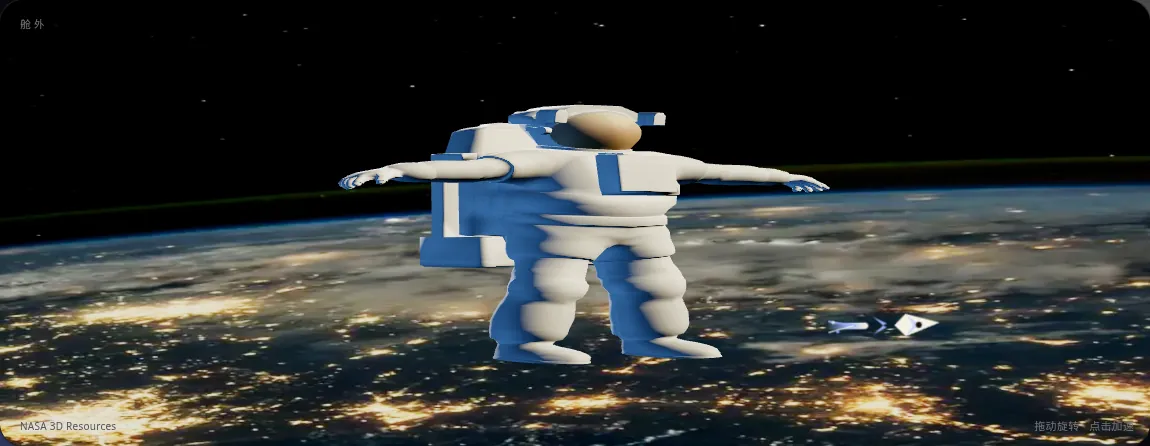
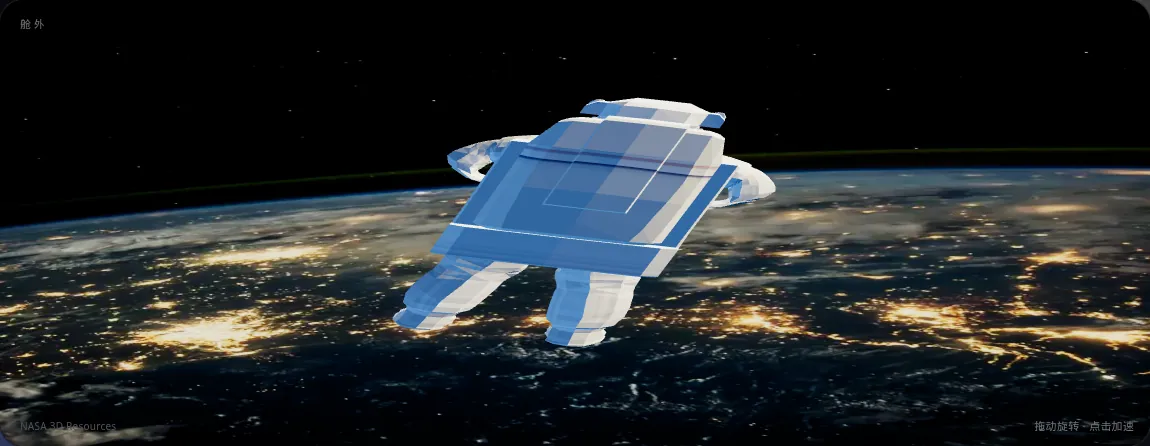
Make the black hole shadow circular and float the astronaut.
The shadow is the critical impact circle, with one continuous disk around the photon ring. The NASA suit's arms are lowered into a resting float, the visor is reflective gold, and the Earth photo is cover-cropped instead of stretched.

diff --git a/src/space/spacewalk.ts b/src/space/spacewalk.ts
@@ -2,6 +2,8 @@ import * as THREE from 'three'
 import { DRACOLoader } from 'three/addons/loaders/DRACOLoader.js'
 import { GLTFLoader } from 'three/addons/loaders/GLTFLoader.js'
 
+const EARTH_ASPECT = 1200 / 798
+
 export type SpacewalkOptions = {
   reduced: boolean
 }
@@ -11,6 +13,71 @@ const EARTH_URL = '/models/earth-limb.webp'
 const FOV = 26
 const WORLD_HEIGHT = 1.62
 const FILL = 0.56
+
+function relaxArms(root: THREE.Object3D) {
+  root.updateWorldMatrix(true, true)
+  const box = new THREE.Box3().setFromObject(root)
+  const size = box.getSize(new THREE.Vector3())
+  const shoulderY = box.min.y + size.y * 0.78
+  const shoulderX = size.x * 0.22
+  const armReach = Math.max(size.x * 0.5 - shoulderX, 0.001)
+  const height = Math.max(size.y, 0.001)
+
+  root.traverse((child) => {
+    if (!(child instanceof THREE.Mesh)) return
+    const attr = child.geometry.getAttribute('position')
+    if (!attr) return
+    const inverse = child.matrixWorld.clone().invert()
+    const point = new THREE.Vector3()
+    for (let index = 0; index < attr.count; index += 1) {
+      point.fromBufferAttribute(attr, index).applyMatrix4(child.matrixWorld)
+      const side = point.x < 0 ? -1 : 1
+      const outward = Math.abs(point.x) - shoulderX
+      const height01 = (point.y - box.min.y) / height
+      const arm = outward > 0 && height01 > 0.4 && height01 < 0.9 && point.z > box.min.z + size.z * 0.2
+      if (arm) {
+        const t = THREE.MathUtils.clamp(outward / armReach, 0, 1)
+        let angle = 1.35 * Math.sqrt(t)
+        if (t > 0.38) angle += 1.15 * ((t - 0.38) / 0.62)
+        const ca = Math.cos(-side * angle)
+        const sa = Math.sin(-side * angle)
+        const pivotX = side * shoulderX
+        const dx = point.x - pivotX
+        const dy = point.y - shoulderY
+        point.x = pivotX + ca * dx - sa * dy
+        point.y = shoulderY + sa * dx + ca * dy
+        point.z -= Math.sin(angle) * height * 0.055 * t
+      }
+      point.applyMatrix4(inverse)
+      attr.setXYZ(index, point.x, point.y, point.z)
+    }
+    attr.needsUpdate = true
+    child.geometry.computeVertexNormals()
+    child.geometry.computeBoundingBox()
+    child.geometry.computeBoundingSphere()
+  })
+}
+
+function makeEnvironment(renderer: THREE.WebGLRenderer) {
+  const pmrem = new THREE.PMREMGenerator(renderer)
+  const env = new THREE.Scene()
+  env.add(new THREE.Mesh(new THREE.SphereGeometry(12, 20, 14), new THREE.MeshBasicMaterial({ color: 0x070b14, side: THREE.BackSide })))
+  const earthGlow = new THREE.Mesh(new THREE.SphereGeometry(5, 24, 16), new THREE.MeshBasicMaterial({ color: 0x2a6eb8 }))
+  earthGlow.position.set(-1.5, -6.5, 1)
+  const sun = new THREE.Mesh(new THREE.SphereGeometry(1.1, 16, 12), new THREE.MeshBasicMaterial({ color: 0xfff4d2 }))
+  sun.position.set(5, 4.2, 3)
+  env.add(earthGlow, sun)
+  const map = pmrem.fromScene(env, 0.04).texture
+  pmrem.dispose()
+  env.traverse((object) => {
+    const mesh = object as THREE.Mesh
+    if (!mesh.isMesh) return
+    mesh.geometry.dispose()
+    const material = mesh.material
+    if (material instanceof THREE.Material) material.dispose()
+  })
+  return map
+}
 
 function makeStarTexture() {
   const canvas = document.createElement('canvas')
@@ -70,12 +137,12 @@ export function mountSpacewalk(host: HTMLElement, options: SpacewalkOptions) {
   )
   scene.add(sky)
 
-  const earth = new THREE.Mesh(
-    new THREE.PlaneGeometry(1, 1),
-    new THREE.MeshBasicMaterial({ transparent: true, depthWrite: false, color: 0xffffff }),
-  )
+  scene.environment = makeEnvironment(renderer)
+
+  const earthMaterial = new THREE.MeshBasicMaterial({ transparent: true, depthWrite: false, color: 0xffffff })
+  const earth = new THREE.Mesh(new THREE.PlaneGeometry(1, 1), earthMaterial)
   earth.visible = false
-  earth.position.set(0.15, -0.35, -2.6)
+  earth.position.set(0, 0, -3.2)
   scene.add(earth)
 
   const modelRoot = new THREE.Group()
@@ -101,14 +168,24 @@ export function mountSpacewalk(host: HTMLElement, options: SpacewalkOptions) {
   }
 
   const placeEarth = () => {
-    const earthZ = -2.6
-    const dist = camera.position.z - earthZ
+    const earthZ = -3.2
+    const dist = Math.max(0.4, camera.position.z - earthZ)
     const visH = 2 * Math.tan((camera.fov * Math.PI) / 180 / 2) * dist
-    const photoAspect = 1200 / 798
-    const planeH = visH * 1.45
-    const planeW = Math.max(planeH * photoAspect, visH * camera.aspect * 1.05)
-    earth.scale.set(planeW, planeH, 1)
-    earth.position.y = -visH * 0.18
+    const visW = visH * Math.max(camera.aspect, 0.1)
+    earth.scale.set(visW, visH, 1)
+    earth.position.set(0, -visH * 0.06, earthZ)
+    const map = earthMaterial.map
+    if (!map) return
+    const viewAspect = visW / visH
+    if (EARTH_ASPECT > viewAspect) {
+      const repeatX = viewAspect / EARTH_ASPECT
+      map.repeat.set(repeatX, 1)
+      map.offset.set((1 - repeatX) * 0.5, 0)
+    } else {
+      const repeatY = EARTH_ASPECT / viewAspect
+      map.repeat.set(1, repeatY)
+      map.offset.set(0, (1 - repeatY) * 0.18)
+    }
   }
 
   const frameCamera = () => {
@@ -125,6 +202,8 @@ export function mountSpacewalk(host: HTMLElement, options: SpacewalkOptions) {
       return
     }
     texture.colorSpace = THREE.SRGBColorSpace
+    texture.wrapS = THREE.ClampToEdgeWrapping
+    texture.wrapT = THREE.ClampToEdgeWrapping
     texture.anisotropy = renderer.capabilities.getMaxAnisotropy()
     const material = earth.material as THREE.MeshBasicMaterial
     material.map = texture
@@ -138,6 +217,7 @@ export function mountSpacewalk(host: HTMLElement, options: SpacewalkOptions) {
     (gltf) => {
       if (disposed) return
       const model = gltf.scene
+      relaxArms(model)
       const box = new THREE.Box3().setFromObject(model)
       const size = box.getSize(new THREE.Vector3())
       const center = box.getCenter(new THREE.Vector3())
@@ -152,10 +232,20 @@ export function mountSpacewalk(host: HTMLElement, options: SpacewalkOptions) {
           material.emissiveMap = null
           material.emissive = new THREE.Color(0x000000)
           material.emissiveIntensity = 0
-          material.roughness = Math.min(material.roughness, 0.62)
-          material.metalness = Math.max(material.metalness, 0.05)
-          material.envMapIntensity = 0.2
           material.side = THREE.FrontSide
+          const visor = material.name === 'astnt1_2'
+          if (visor) {
+            material.color.set(0xffc45a)
+            material.map = null
+            material.metalness = 1
+            material.roughness = 0.08
+            material.envMapIntensity = 1.4
+          } else {
+            material.color.set(0xffffff)
+            material.metalness = 0.12
+            material.roughness = 0.78
+            material.envMapIntensity = 0.45
+          }
         }
       })
       modelRoot.add(model)
@@ -179,12 +269,13 @@ export function mountSpacewalk(host: HTMLElement, options: SpacewalkOptions) {
       camera.updateProjectionMatrix()
     }
     const t = options.reduced ? 0 : now * 0.001
-    const driftYaw = state.dragging ? 0 : Math.sin(t * 0.22) * 0.045
-    const driftRoll = state.dragging ? 0 : Math.sin(t * 0.37) * 0.03
-    const driftY = state.dragging ? 0 : Math.sin(t * 0.55) * 0.04
+    const driftYaw = state.dragging ? 0 : t * 0.18
+    const driftRoll = state.dragging ? 0 : Math.sin(t * 0.35) * 0.035
+    const driftY = state.dragging ? 0 : Math.sin(t * 0.5) * 0.045
+    modelRoot.rotation.order = 'YXZ'
     modelRoot.rotation.y = state.yaw + driftYaw
-    modelRoot.rotation.x = state.pitch
-    modelRoot.rotation.z = driftRoll
+    modelRoot.rotation.x = -0.22 + state.pitch
+    modelRoot.rotation.z = 0.32 + driftRoll
     modelRoot.position.set(state.pointerX * 0.04, driftY - state.pointerY * 0.03, 0)
     rim.intensity = state.hover ? 5.0 : 3.6
     key.intensity = state.hover ? 7.4 : 6.4

diff --git a/src/space/blackHole.ts b/src/space/blackHole.ts
@@ -11,8 +11,9 @@ void main() {
 }
 `
 
-// Geometric units with M = 1: horizon at r = 2, photon sphere at r = 3.
-// The camera sits on a ray through the origin, so the centre pixel is the shadow.
+// Geometric units, M = 1. The shadow is the critical impact parameter (a circle).
+// The disk is one connected image: a thin arc over the top, the near disk below,
+// joined at the sides, with the photon ring as their shared inner edge.
 const FRAG = `#version 300 es
 precision highp float;
 out vec4 fragColor;
@@ -22,11 +23,10 @@ uniform vec2 uPointer;
 uniform float uZoom;
 uniform float uTime;
 
-const float CAM = 23.0;
-const float DISK_IN = 3.55;
-const float DISK_OUT = 12.5;
-const float HORIZON = 2.02;
-const float PHOTON = 3.0;
+const float CAM = 34.0;
+const float FOCAL = 1.38;
+const float BC = 5.196152;
+const float RS = 2.04;
 
 vec3 rotY(vec3 p, float a) {
   float c = cos(a), s = sin(a);
@@ -67,90 +67,81 @@ vec3 stars(vec3 dir) {
   return color;
 }
 
-vec3 diskHue(float rho, float approach) {
-  float u = clamp((rho - DISK_IN) / (DISK_OUT - DISK_IN), 0.0, 1.0);
-  vec3 col = mix(vec3(1.0, 0.97, 0.9), vec3(1.0, 0.72, 0.08), smoothstep(0.0, 0.32, u));
-  col = mix(col, vec3(1.0, 0.32, 0.02), smoothstep(0.28, 0.92, u));
-  float hot = clamp(0.5 + 0.55 * approach, 0.0, 1.0);
-  col = mix(col, vec3(1.0, 0.97, 0.92), hot * 0.7);
-  return col;
+vec3 bend(vec3 p, vec3 v) {
+  float r2 = max(dot(p, p), 1e-4);
+  float r = sqrt(r2);
+  float xv = dot(p, v);
+  return -(1.0 / (r * r2)) * (p - 4.0 * xv * v + 3.0 * xv * xv / r2 * p);
 }
 
 void main() {
-  vec2 uv = (gl_FragCoord.xy - 0.5 * uResolution) / uResolution.y;
-  uv += uPointer * 0.012;
-  uv.y += 0.035;
+  vec2 q = (gl_FragCoord.xy - 0.5 * uResolution) / uResolution.y;
+  q += uPointer * 0.01;
 
-  float elev = clamp(0.18 + uAngle.y, 0.05, 1.05);
+  float elev = clamp(0.24 + uAngle.y, 0.08, 0.9);
   float yaw = uAngle.x;
   vec3 ro = vec3(0.0, sin(elev), cos(elev)) * CAM;
   ro = rotY(ro, yaw);
   vec3 forward = normalize(-ro);
   vec3 right = normalize(cross(forward, vec3(0.0, 1.0, 0.0)));
   vec3 up = normalize(cross(right, forward));
-  vec3 rd = normalize(forward * 1.32 + (right * uv.x + up * uv.y) * uZoom);
+  vec3 rd = normalize(forward * FOCAL + (right * q.x + up * q.y) * uZoom);
+  float b = length(cross(ro, rd));
+
+  float k = BC / CAM;
+  float shadowR = (FOCAL / uZoom) * k / sqrt(max(1.0 - k * k, 0.2));
+  float s = length(q);
+
+  if (b < BC - 0.02) {
+    fragColor = vec4(0.0, 0.0, 0.0, 1.0);
+    return;
+  }
 
   vec3 p = ro;
   vec3 v = rd;
-  vec3 disk = vec3(0.0);
   bool trapped = false;
-  float closest = 80.0;
-  int hits = 0;
-
   const int STEPS = STEP_COUNT;
   for (int i = 0; i < STEPS; i++) {
     float r = length(p);
-    closest = min(closest, r);
-    if (r < HORIZON) {
+    if (r < RS) {
       trapped = true;
       break;
     }
-    if (i > 8 && dot(v, p) > 0.0 && r > CAM * 1.45) break;
-
-    float h2 = dot(cross(p, v), cross(p, v));
-    vec3 acc = -1.5 * h2 * p / pow(r, 5.0);
+    if (i > 12 && dot(v, p) > 0.0 && r > CAM * 1.25) break;
+    vec3 acc = bend(p, v);
     float accel = length(acc);
-    float dt = 0.24;
-    if (accel > 1e-4) dt = min(dt, 0.2 / accel);
-    dt = clamp(dt, 0.01, 0.34);
-
-    v = normalize(v + acc * dt);
-    vec3 next = p + v * dt;
-
-    if (hits < 2 && p.y * next.y < 0.0) {
-      float t = clamp(p.y / (p.y - next.y), 0.0, 1.0);
-      vec3 hit = mix(p, next, t);
-      float rho = length(hit.xz);
-      if (rho > DISK_IN && rho < DISK_OUT) {
-        hits += 1;
-        vec3 tangent = vec3(-hit.z, 0.0, hit.x) / rho;
-        float approach = clamp(-dot(v, tangent), -1.0, 1.0);
-        float beta = clamp(0.72 * sqrt(DISK_IN / rho), 0.0, 0.78);
-        float doppler = pow(clamp(1.0 + 0.38 * beta * approach, 0.78, 1.55), 1.7);
-        float radial = pow(DISK_IN / rho, 1.55);
-        float edge = smoothstep(DISK_IN, DISK_IN + 0.12, rho) * smoothstep(DISK_OUT, DISK_OUT - 3.6, rho);
-        float phi = atan(hit.z, hit.x);
-        float grain = 0.92 + 0.08 * sin(phi * 2.0 + rho * 0.18 - uTime * 0.12);
-        float weight = hits == 1 ? 1.0 : 0.8;
-        float inten = radial * doppler * edge * grain * weight * 5.4;
-        disk += diskHue(rho, approach) * inten;
-      }
-    }
-    p = next;
+    float speed = max(length(v), 1e-3);
+    float dt = clamp(0.16 * speed / max(accel, 1e-3), 0.004, 0.12);
+    vec3 vMid = v + acc * dt * 0.5;
+    vec3 pMid = p + v * dt * 0.5;
+    v += bend(pMid, vMid) * dt;
+    p += v * dt;
   }
 
-  vec3 color = vec3(0.0);
-  if (!trapped) {
-    color = stars(normalize(v)) * smoothstep(2.4, 3.5, closest);
-    float ring = exp(-pow((closest - PHOTON) / 0.02, 2.0));
-    color += vec3(1.45, 1.38, 1.22) * ring * 4.0;
-  }
-  color += disk;
+  vec3 color = trapped ? vec3(0.0) : stars(normalize(v));
 
-  float vig = smoothstep(1.35, 0.55, length(uv));
-  color *= mix(0.92, 1.0, vig);
-  color = 1.0 - exp(-color * 1.08);
-  fragColor = vec4(pow(max(color, 0.0), vec3(0.92)), 1.0);
+  float ring = exp(-pow((b - BC) / 0.17, 2.0));
+  color += vec3(1.0, 0.98, 0.94) * ring * 2.6;
+
+  float psi = atan(q.x, -q.y);
+  float down = pow(clamp(0.5 + 0.5 * cos(psi), 0.0, 1.0), 0.72);
+  float outer = shadowR * mix(1.34, 4.15, down);
+  float inner = shadowR * 1.018;
+  float band = smoothstep(inner, inner + shadowR * 0.035, s) * smoothstep(outer, outer - shadowR * 0.55, s);
+  float heat = exp(-2.4 * clamp((s - inner) / max(outer - inner, 1e-3), 0.0, 1.0));
+  float cYaw = cos(yaw);
+  float sYaw = sin(yaw);
+  float side = (cYaw * q.x - sYaw * q.y) / max(shadowR, 1e-3);
+  float approach = clamp(side, -1.0, 1.0);
+  vec3 hue = mix(vec3(1.0, 0.97, 0.9), vec3(1.0, 0.68, 0.06), smoothstep(0.0, 0.42, 1.0 - heat));
+  hue = mix(hue, vec3(0.92, 0.3, 0.02), smoothstep(0.35, 1.0, 1.0 - heat));
+  hue = mix(hue, vec3(1.0, 0.98, 0.94), clamp(approach, 0.0, 1.0) * 0.55);
+  float doppler = pow(clamp(1.0 + 0.42 * approach, 0.62, 1.55), 1.6);
+  float grain = 0.94 + 0.06 * sin(psi * 2.0 - uTime * 0.15 + s * 8.0);
+  color += hue * band * (0.45 + 3.1 * heat) * doppler * grain;
+
+  color = 1.0 - exp(-color * 1.05);
+  fragColor = vec4(pow(max(color, 0.0), vec3(0.94)), 1.0);
 }
 `
 
@@ -179,7 +170,7 @@ export function mountBlackHole(host: HTMLElement, options: BlackHoleOptions) {
     return () => {}
   }
 
-  const steps = options.mobile ? 72 : 150
+  const steps = options.mobile ? 36 : 64
   const frag = FRAG.replace('STEP_COUNT', String(steps))
   const vs = compile(gl, gl.VERTEX_SHADER, VERT)
   const fs = compile(gl, gl.FRAGMENT_SHADER, frag)

diff --git a/README.md b/README.md
@@ -4,8 +4,8 @@ Personal site. Fonts, 3D libraries, and models are bundled or served from this r
 
 ## Assets and licences
 
-- **Astronaut model** — [NASA 3D Resources: Astronaut](https://science.nasa.gov/3d-resources/astronaut/) (`public/models/astronaut.glb`, 746 KB glTF with Draco mesh compression and WebP textures). NASA 3D Resources states these files are free to download and use, and without copyright. The catalog credits DigitalSpace Corporation. Self-hosted; the page does not request it from nasa.gov at runtime.
-- **Earth limb photograph** — NASA image `iss040e090540`, Expedition 40 ([images.nasa.gov](https://images.nasa.gov/details/iss040e090540)), public domain. Compressed to `public/models/earth-limb.webp` and served from this site.
+- **Astronaut model** — [NASA 3D Resources: Astronaut](https://science.nasa.gov/3d-resources/astronaut/) (`public/models/astronaut.glb`, 746 KB glTF with Draco mesh compression and WebP textures). NASA 3D Resources states these files are free to download and use, and without copyright. The catalog credits DigitalSpace Corporation. The source mesh is an unrigged T-pose; the page bends the arms into a resting float and shades the helmet visor as reflective gold. Self-hosted; the page does not request it from nasa.gov at runtime.
+- **Earth limb photograph** — NASA image `iss040e090540`, Expedition 40 ([images.nasa.gov](https://images.nasa.gov/details/iss040e090540)), public domain. Compressed to `public/models/earth-limb.webp`. It is cover-cropped to the panel so the photo is not stretched.
 - **Draco decoder** — bundled from Three.js into the site’s own build, so the compressed mesh decodes without a third-party CDN. Draco is Apache-2.0; Three.js is MIT.
 - **Instrument Serif** — italic cut, [SIL Open Font License 1.1](https://scripts.sil.org/OFL), self-hosted through `@fontsource/instrument-serif`.
 - **Black hole** — original WebGL shader in `src/space/blackHole.ts` (accretion disk, Doppler beaming, gravitational lensing). No external texture.
